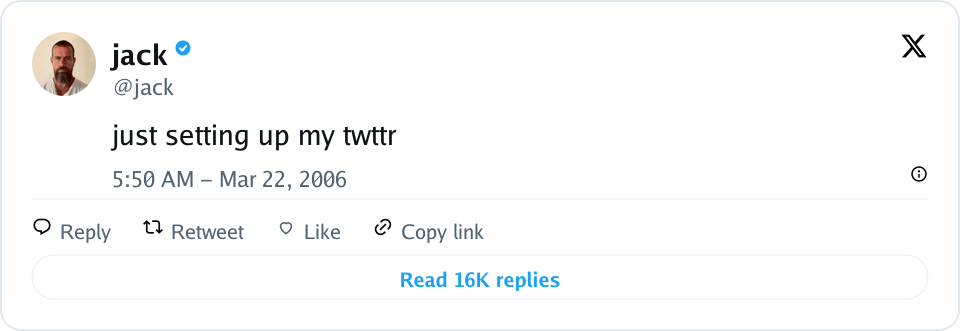
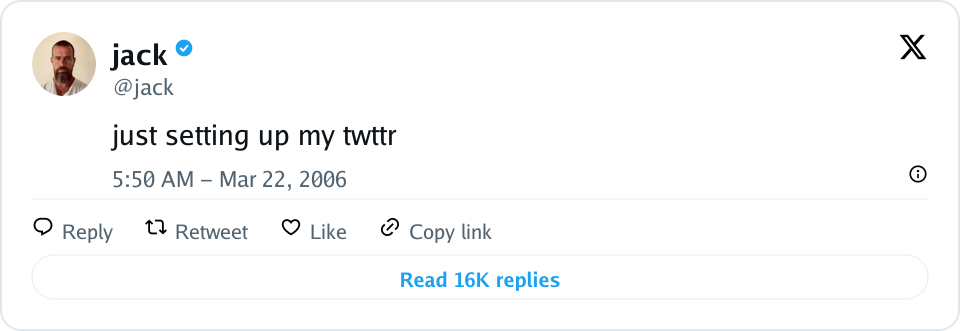
- fix(render): SVGアイコンのサイズと上下中央揃えを調整し、アクション行の視認性を改善するため - feat(cli): Simpleモードを追加し、フッターを非表示にできるようにするため

diff --git a/internal/render/layout.go b/internal/render/layout.go
@@ -45,6 +45,7 @@ type Layout struct {
 	InfoSize       float64
 	DividerY       float64
 	Actions        []ActionLayout
+	ShowFooter     bool
 	CTA            string
 	CtaX           float64
 	CtaY           float64
@@ -88,12 +89,13 @@ func computeLayout(data TweetData, opts RenderOptions, fonts FontSet) Layout {
 	gap := float64(opts.Gap)
 	width := float64(opts.Width)
 
-	twitterSize := 28.0
-	infoSize := 18.0
-	actionIconSize := 20.0
+	twitterSize := 30.0
+	infoSize := 20.0
+	actionIconSize := 22.0
 	ctaHeight := 44.0
-	verifiedSize := 18.0
+	verifiedSize := 20.0
 	verifiedGap := 6.0
+	showFooter := !data.Simple
 
 	textStartX := padding + avatarSize + gap
 	headerAvailableWidth := width - padding - textStartX - twitterSize - 8
@@ -143,6 +145,37 @@ func computeLayout(data TweetData, opts RenderOptions, fonts FontSet) Layout {
 		textBlockHeight = float64(len(textLines)-1)*textLineHeight + textHeight
 	}
 
+	if !showFooter {
+		height := int(math.Ceil(padding + headerHeight + 16 + textBlockHeight + padding))
+		return Layout{
+			Width:          int(width),
+			Height:         height,
+			Padding:        padding,
+			AvatarSize:     avatarSize,
+			AvatarX:        padding,
+			AvatarY:        padding,
+			HeaderGap:      gap,
+			NameX:          textStartX,
+			NameY:          nameY,
+			Verified:       data.Verified,
+			VerifiedX:      verifiedX,
+			VerifiedY:      verifiedY,
+			VerifiedSize:   verifiedSize,
+			HandleX:        textStartX,
+			HandleY:        handleY,
+			TwitterX:       width - padding - twitterSize,
+			TwitterY:       padding,
+			TwitterSize:    twitterSize,
+			TextX:          textStartX,
+			TextY:          textY,
+			TextLines:      textLines,
+			TextLineHeight: textLineHeight,
+			ShowFooter:     false,
+			NameLine:       nameLine,
+			HandleLine:     handleLine,
+		}
+	}
+
 	dateAvailableWidth := textAvailableWidth - infoSize - 8
 	if dateAvailableWidth < 1 {
 		dateAvailableWidth = textAvailableWidth
@@ -155,7 +188,8 @@ func computeLayout(data TweetData, opts RenderOptions, fonts FontSet) Layout {
 	cursorY := padding + headerHeight + 16 + textBlockHeight
 
 	if dateLine != "" {
-		dateY = cursorY + 16 + metaHeight
+		dateRowHeight := math.Max(metaHeight, infoSize)
+		dateY = cursorY + 16 + (dateRowHeight-metaHeight)/2 + metaHeight
 		infoX = width - padding - infoSize
 		infoY = dateY - metaHeight/2 - infoSize/2
 		dividerY = dateY + 12
@@ -166,8 +200,8 @@ func computeLayout(data TweetData, opts RenderOptions, fonts FontSet) Layout {
 	}
 
 	actionsTop := cursorY + 16
-	actionsBaseline := actionsTop + actionHeight
 	actionRowHeight := math.Max(actionHeight, actionIconSize)
+	actionsBaseline := actionsTop + (actionRowHeight-actionHeight)/2 + actionHeight
 	cursorY = actionsTop + actionRowHeight
 
 	actions := defaultActions()
@@ -228,6 +262,7 @@ func computeLayout(data TweetData, opts RenderOptions, fonts FontSet) Layout {
 		InfoSize:       infoSize,
 		DividerY:       dividerY,
 		Actions:        actions,
+		ShowFooter:     true,
 		CTA:            cta,
 		CtaX:           ctaX,
 		CtaY:           ctaY,

diff --git a/internal/render/html.go b/internal/render/html.go
@@ -17,6 +17,7 @@ type htmlView struct {
 	Text          string
 	CTA           string
 	Verified      bool
+	ShowFooter    bool
 	AvatarDataURI string
 	Initials      string
 	FontFamily    string
@@ -111,11 +112,6 @@ const htmlTemplate = `<!doctype html>
     .verified {
       color: var(--accent);
     }
-    .verified svg {
-      width: 18px;
-      height: 18px;
-      display: block;
-    }
     .handle {
       font-size: 22px;
       color: var(--muted);
@@ -156,13 +152,23 @@ const htmlTemplate = `<!doctype html>
       gap: 8px;
     }
     .icon svg {
+      width: 22px;
+      height: 22px;
+      display: block;
+    }
+    .twitter svg {
+      width: 30px;
+      height: 30px;
+      display: block;
+    }
+    .verified svg {
       width: 20px;
       height: 20px;
       display: block;
     }
     .info svg {
-      width: 18px;
-      height: 18px;
+      width: 20px;
+      height: 20px;
       display: block;
     }
     .cta {
@@ -201,23 +207,25 @@ const htmlTemplate = `<!doctype html>
       <div class="twitter icon">{{.TwitterIcon}}</div>
     </div>
     <div class="text">{{.Text}}</div>
-    {{if .DateLine}}
-    <div class="date-row">
-      <div>{{.DateLine}}</div>
-      <div class="info">{{.InfoIcon}}</div>
-    </div>
-    <div class="divider"></div>
-    {{else}}
-    <div class="divider" style="margin-top: 16px;"></div>
-    {{end}}
-    <div class="actions">
-      <div class="action icon">{{.ReplyIcon}}<span>Reply</span></div>
-      <div class="action icon">{{.RetweetIcon}}<span>Retweet</span></div>
-      <div class="action icon">{{.LikeIcon}}<span>Like</span></div>
-      <div class="action icon">{{.LinkIcon}}<span>Copy link</span></div>
-    </div>
-    {{if .CTA}}
-    <div class="cta">{{.CTA}}</div>
+    {{if .ShowFooter}}
+      {{if .DateLine}}
+      <div class="date-row">
+        <div>{{.DateLine}}</div>
+        <div class="info">{{.InfoIcon}}</div>
+      </div>
+      <div class="divider"></div>
+      {{else}}
+      <div class="divider" style="margin-top: 16px;"></div>
+      {{end}}
+      <div class="actions">
+        <div class="action icon">{{.ReplyIcon}}<span>Reply</span></div>
+        <div class="action icon">{{.RetweetIcon}}<span>Retweet</span></div>
+        <div class="action icon">{{.LikeIcon}}<span>Like</span></div>
+        <div class="action icon">{{.LinkIcon}}<span>Copy link</span></div>
+      </div>
+      {{if .CTA}}
+      <div class="cta">{{.CTA}}</div>
+      {{end}}
     {{end}}
   </div>
 </body>
@@ -247,6 +255,7 @@ func RenderHTML(data TweetData, opts RenderOptions) (string, error) {
 		Text:          data.Text,
 		CTA:           strings.TrimSpace(data.CTA),
 		Verified:      data.Verified,
+		ShowFooter:    !data.Simple,
 		AvatarDataURI: avatar,
 		Initials:      initials(data.Name),
 		FontFamily:    opts.FontFamily,

diff --git a/internal/render/image.go b/internal/render/image.go
@@ -97,7 +97,7 @@ func RenderImage(data TweetData, opts RenderOptions) (*image.RGBA, error) {
 		y += layout.TextLineHeight
 	}
 
-	if layout.DateLine != "" {
+	if layout.ShowFooter && layout.DateLine != "" {
 		ctx.SetFontFace(fonts.Meta)
 		ctx.SetColor(muted)
 		ctx.DrawString(layout.DateLine, layout.DateX, layout.DateY)
@@ -108,22 +108,26 @@ func RenderImage(data TweetData, opts RenderOptions) (*image.RGBA, error) {
 		}
 	}
 
-	ctx.SetColor(divider)
-	ctx.SetLineWidth(1)
-	ctx.DrawLine(layout.Padding, layout.DividerY, float64(layout.Width)-layout.Padding, layout.DividerY)
-	ctx.Stroke()
-
-	for _, action := range layout.Actions {
-		icon, err := rasterizeIcon(action.IconName, opts.Theme.Muted, int(action.IconSize))
-		if err == nil {
-			ctx.DrawImage(icon, int(action.IconX), int(action.IconY))
-		}
-		ctx.SetFontFace(fonts.Action)
-		ctx.SetColor(muted)
-		ctx.DrawString(action.Label, action.LabelX, action.LabelY)
+	if layout.ShowFooter {
+		ctx.SetColor(divider)
+		ctx.SetLineWidth(1)
+		ctx.DrawLine(layout.Padding, layout.DividerY, float64(layout.Width)-layout.Padding, layout.DividerY)
+		ctx.Stroke()
 	}
 
-	if layout.CTA != "" {
+	if layout.ShowFooter {
+		for _, action := range layout.Actions {
+			icon, err := rasterizeIcon(action.IconName, opts.Theme.Muted, int(action.IconSize))
+			if err == nil {
+				ctx.DrawImage(icon, int(action.IconX), int(action.IconY))
+			}
+			ctx.SetFontFace(fonts.Action)
+			ctx.SetColor(muted)
+			ctx.DrawString(action.Label, action.LabelX, action.LabelY)
+		}
+	}
+
+	if layout.ShowFooter && layout.CTA != "" {
 		ctx.SetColor(bg)
 		ctx.DrawRoundedRectangle(layout.CtaX, layout.CtaY, layout.CtaWidth, layout.CtaHeight, layout.CtaHeight/2)
 		ctx.FillPreserve()

diff --git a/internal/render/svg.go b/internal/render/svg.go
@@ -52,6 +52,7 @@ type svgView struct {
 	DateY         float64
 	DateLine      string
 	DividerY      float64
+	ShowFooter    bool
 	TwitterIcon   string
 	InfoIcon      string
 	Actions       []svgAction
@@ -91,6 +92,7 @@ const svgTemplate = `<?xml version="1.0" encoding="UTF-8"?>
   <text x="{{.X}}" y="{{.Y}}" fill="{{$.TextColor}}" font-family="{{$.FontFamily}}" font-size="28">{{escape .Text}}</text>
   {{end}}
 
+  {{if .ShowFooter}}
   {{if .DateLine}}
   <text x="{{.DateX}}" y="{{.DateY}}" fill="{{.MutedColor}}" font-family="{{.FontFamily}}" font-size="22">{{escape .DateLine}}</text>
   {{.InfoIcon}}
@@ -106,6 +108,7 @@ const svgTemplate = `<?xml version="1.0" encoding="UTF-8"?>
   {{if .CTA}}
   <rect x="{{.CtaX}}" y="{{.CtaY}}" width="{{.CtaWidth}}" height="{{.CtaHeight}}" rx="{{div .CtaHeight 2}}" ry="{{div .CtaHeight 2}}" fill="{{.Background}}" stroke="{{.Divider}}" stroke-width="1" />
   <text x="{{.CtaTextX}}" y="{{.CtaTextY}}" fill="{{.AccentColor}}" font-family="{{.FontFamily}}" font-size="20" font-weight="600">{{escape .CTA}}</text>
+  {{end}}
   {{end}}
 </svg>
 `
@@ -200,6 +203,7 @@ func RenderSVG(data TweetData, opts RenderOptions) (string, error) {
 		DividerX1:     layout.Padding,
 		DividerX2:     float64(layout.Width) - layout.Padding,
 		DividerY:      layout.DividerY,
+		ShowFooter:    layout.ShowFooter,
 		TwitterIcon:   twitterIcon,
 		InfoIcon:      infoIcon,
 		Actions:       actions,

diff --git a/internal/render/render_test.go b/internal/render/render_test.go
@@ -101,3 +101,19 @@ func TestIconsLoad(t *testing.T) {
 		t.Fatalf("unexpected icon size")
 	}
 }
+
+func TestSimpleModeHTML(t *testing.T) {
+	data := TweetData{
+		Text:   "Simple preview",
+		Name:   "Example User",
+		Handle: "example",
+		Simple: true,
+	}
+	html, err := RenderHTML(data, DefaultOptions())
+	if err != nil {
+		t.Fatalf("RenderHTML: %v", err)
+	}
+	if strings.Contains(html, "Reply") || strings.Contains(html, "Copy link") {
+		t.Fatalf("simple mode should hide footer actions")
+	}
+}

diff --git a/internal/render/types.go b/internal/render/types.go
@@ -12,6 +12,7 @@ type TweetData struct {
 	Location string
 	CTA      string
 	Verified bool
+	Simple   bool
 }
 
 // RenderOptions controls output sizes, fonts, and theme.

diff --git a/README.md b/README.md
@@ -77,6 +77,7 @@ CTA非表示:
 - `-cta`: CTAボタン文言 (空で非表示、既定は英語文言)
 - `-no-cta`: CTAを非表示
 - `-verified`: 認証バッジを表示
+- `-simple`: Simpleモード(フッター非表示)
 - `-output`: 出力ファイルパス (拡張子から形式を推定)
 - `-format`: 出力形式 `png|jpg|jpeg|gif|svg|html`
 - `-width`: 出力幅(px)
